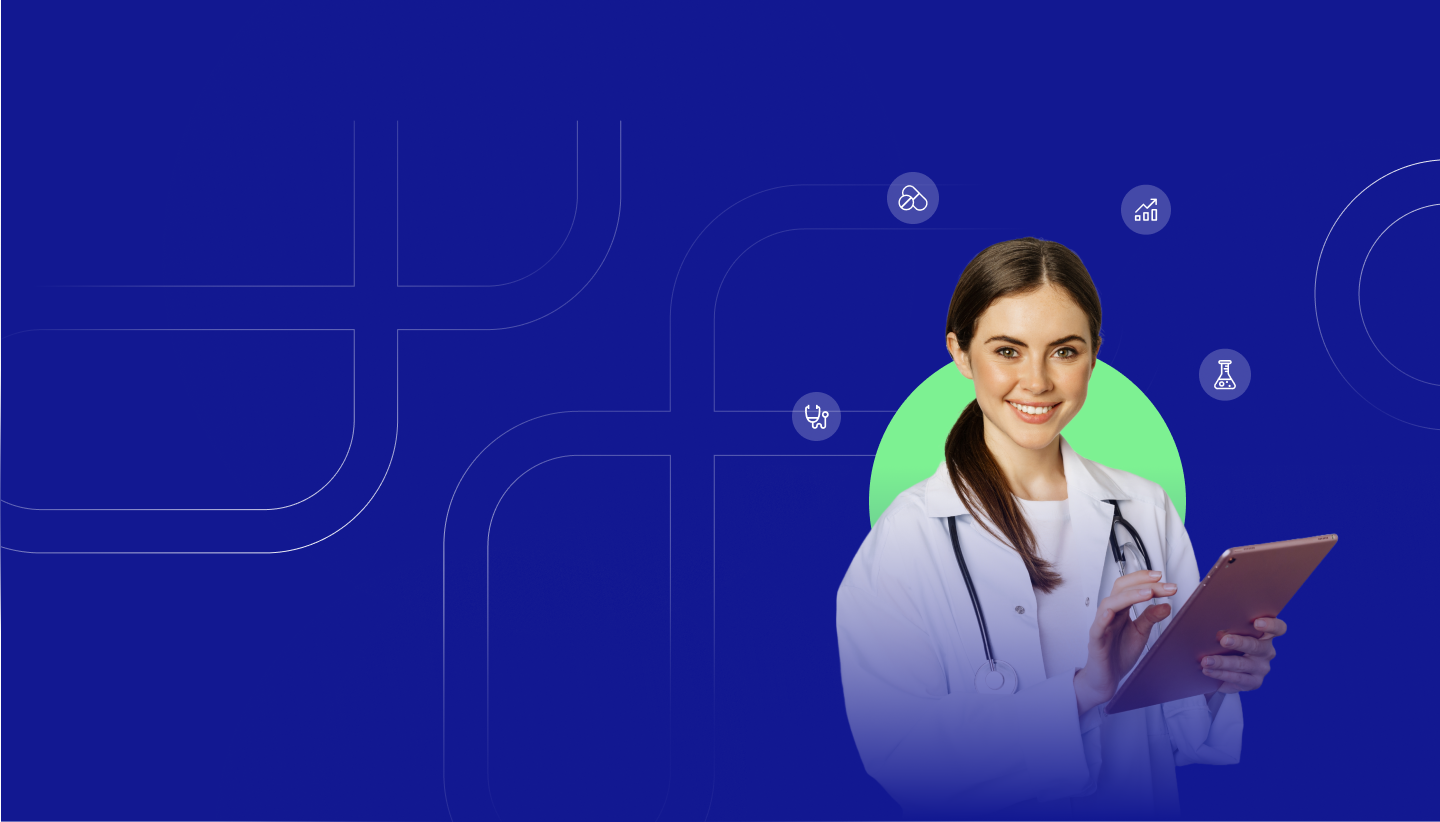
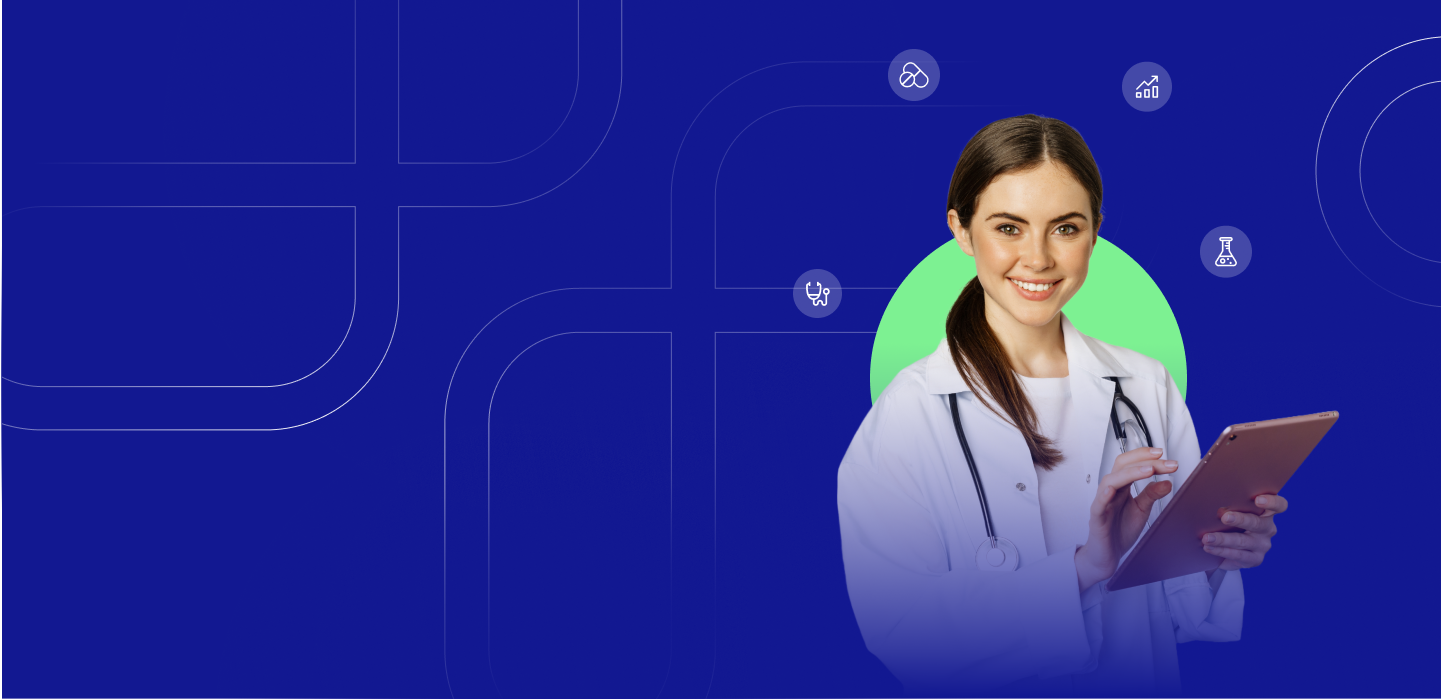
Completed carousel design part

diff --git a/index.html b/index.html
@@ -3,7 +3,7 @@
   <head>
     <meta charset="UTF-8" />
     <meta name="viewport" content="width=device-width, initial-scale=1.0" />
-    <title>Document</title>
+    <title>DoctorLive</title>
     <link rel="stylesheet" href="./css/style.css" />
     <link
       rel="stylesheet"
@@ -99,71 +99,78 @@
             </li> -->
           </ul>
 
-          <button class="text-primary rounded-full bg-light border-0 float-end book-demo-btn">
+          <button class="rounded-full bg-light border-0 float-end book-demo-btn">
             Book Demo
           </button>
         </div>
       </div>
     </nav>
-
+    <div id="shadow-box-navbar"></div>
     <!-- Carousel Item section -->
-    <div id="carouselExampleSlidesOnly" class="carousel slide" data-ride="carousel">
+    <div id="carouselExampleSlidesOnly" class="carousel slide" data-bs-ride="carousel">
         <div class="carousel-inner">
-          <div class="carousel-item active">
-            <div>
+          <div class="carousel-item active" >
                 <div class="carousel-slide-1">
-                 <h3 class="text-green fs-1 fw-bold">All-In-One Healthcare-Solution,</h3>
-                 <h3 class="text-light fs-1 fw-bold">From Billing to Patient Care,</h3>
-                 <h3 class="text-light fs-1 fw-bold">We've Got You Covered.</h3>
-                
-                <div class="inner-flex-container mb-5">
-                    <div>
-                    <p class="text-light mb-5">Streamline operations, enhance patient care, and embrace <br> the future of healthcare management.</p>
-                    <i class="fa-solid fa-check text-green"></i><span class="text-light m-2">Tailor-Made Solutions</span>
-                     <br>
-                     <i class="fa-solid fa-check text-green"></i> <span class="text-light m-2">Seamless Operations</span><br>
-                     <i class="fa-solid fa-check text-green"></i> <span class="text-light m-2">Data-Driven Excellence</span><br>
-                    <button  class="border-0  bg-light  fw-medium mt-5 explore-innovation-btn">Explore Innovation</button>
-                </div>  
-                <div>
-                    <img src="./assets/img/laptop.png" alt="">
-                </div>  
-               
-            </div>
-            <div class="slide-footer-flex">
-                <div>
-                   <span class="text-green fs-2 fw-medium">6+</span>
-                   <p class="text-light fs-6">Years Experience</p>
-                </div>
-                <div>
-                    <span class="text-green fs-2 fw-medium">15+</span>
-                    <p class="text-light fs-6">Modules</p>
-                </div>
-                <div>
-                    <span class="text-green fs-2 fw-medium">24/7</span>
-                    <p class="text-light fs-6">Support</p>
-                </div>
-                <div>
-                    <span class="text-green fs-2 fw-medium">50%</span>
-                    <p class="text-light fs-6">Faster Billing</p>
-                </div>
-                <div>
-                    <span class="text-green fs-2 fw-medium">100%</span>
-                    <p class="text-light fs-6">Data Security</p>
-                </div>
-                <div>
-                    <span class="text-green fs-2 fw-medium">99%</span>
-                    <p class="text-light fs-6">Uptime</p>
-                </div>
-               </div>
-            </div>
-            </div>
+                    <div class="p-5">
+                      <div>
+                        <h3 class="text-green fs-1 fw-bold lh-16">All-In-One Healthcare-Solution,</h3>
+                        <h3 class="text-light fs-1 fw-bold">From Billing to Patient Care,</h3>
+                        <h3 class="text-light fs-1 fw-bold lh-16">We've Got You Covered.</h3>
+                      </div>
+                       
+                       <div class="inner-flex-container">
+                           <div>
+                           <p class="text-light mb-5">Streamline operations, enhance patient care, and embrace <br> the future of healthcare management.</p>
+                           <i class="fa-solid fa-check text-green"></i><span class="text-light m-2 fw-medium">Tailor-Made Solutions</span>
+                            <br>
+                            <i class="fa-solid fa-check text-green"></i> <span class="text-light m-2 fw-medium">Seamless Operations</span><br>
+                            <i class="fa-solid fa-check text-green"></i> <span class="text-light m-2 fw-medium">Data-Driven Excellence</span><br>
+                           <button  class="border-0  bg-light  mt-5 explore-innovation-btn">Explore Innovation</button>
+                       </div>  
+                       <div id="s-child"></div>  
+                      
+                   </div>
+                    </div>
+           
+            
           </div>
-          <div class="carousel-item">
+          
+          <div class="slide-footer-flex">
+            <div>
+               <span class="text-green fs-2 fw-medium">6+</span>
+               <p class="text-light fs-6">Years Experience</p>
+            </div>
+            <div>
+                <span class="text-green fs-2 fw-medium">15+</span>
+                <p class="text-light fs-6">Modules</p>
+            </div>
+            <div>
+                <span class="text-green fs-2 fw-medium">24/7</span>
+                <p class="text-light fs-6">Support</p>
+            </div>
+            <div>
+                <span class="text-green fs-2 fw-medium">50%</span>
+                <p class="text-light fs-6">Faster Billing</p>
+            </div>
+            <div>
+                <span class="text-green fs-2 fw-medium">100%</span>
+                <p class="text-light fs-6">Data Security</p>
+            </div>
+            <div>
+                <span class="text-green fs-2 fw-medium">99%</span>
+                <p class="text-light fs-6">Uptime</p>
+            </div>
+           </div>
+           <div id="shadow-box-slide-footer">
+           
+           </div>
+        </div>
+           <div class="carousel-item">
             <div class="carousel-slide-2">
-                    <h3 class="text-green fs-1 fw-bold">All-In-One Healthcare-Solution,</h3>
-                    <h3 class="text-light fs-1 fw-bold">From Billing to Patient Care,</h3>
-                    <h3 class="text-light fs-1 fw-bold">We've Got You Covered.</h3>
+                <div class="p-5">
+                    <h3 class="text-green fs-1 fw-bold lh-16">Elevate Healthcare</h3>
+                    <h3 class="text-light fs-1 fw-bold">Excellence with Cutting-Edge</h3>
+                    <h3 class="text-light fs-1 fw-bold lh-16">Management Solutions</h3>
                    
                    <div class="inner-flex-container mb-5">
                        <div>
@@ -172,41 +179,94 @@
                         <br>
                         <i class="fa-solid fa-check text-green"></i> <span class="text-light m-2">Seamless Operations</span><br>
                         <i class="fa-solid fa-check text-green"></i> <span class="text-light m-2">Data-Driven Excellence</span><br>
-                       <button  class="border-0  bg-light  fw-medium mt-5 explore-innovation-btn">Explore Innovation</button>
+                       <button  class="border-0  bg-light  mt-5 explore-innovation-btn">Request a Demo</button>
                    </div>  
                </div>
-               <div class="slide-footer-flex">
-                   <div>
-                      <span class="text-green fs-2 fw-medium">6+</span>
-                      <p class="text-light fs-6">Years Experience</p>
+                </div>
+               </div>
+                <div class="slide-footer-flex">
+                   <div class="text-center">
+                      <img src="./assets/img/customize.svg" width="100px" height="50px" alt="">
+                      <p class="text-light fs-6 mt-2 fw-medium">Customizable</p>
                    </div>
-                   <div>
-                       <span class="text-green fs-2 fw-medium">15+</span>
-                       <p class="text-light fs-6">Modules</p>
+                   <div class="text-center">
+                    <img src="./assets/img/support.svg"  width="100px" height="50px" alt="">
+                       <p class="text-light fs-6 mt-2 fw-medium">Support</p>
                    </div>
-                   <div>
-                       <span class="text-green fs-2 fw-medium">24/7</span>
-                       <p class="text-light fs-6">Support</p>
+                   <div class="text-center">
+                    <img src="./assets/img/secure.svg" width="100px" height="50px" alt="">
+                       <p class="text-light fs-6 mt-2 fw-medium">Secure</p>
                    </div>
-                   <div>
-                       <span class="text-green fs-2 fw-medium">50%</span>
-                       <p class="text-light fs-6">Faster Billing</p>
+                   <div class="text-center">
+                    <img src="./assets/img/Affordable.svg" width="100px" height="50px" alt="">
+                       <p class="text-light fs-6 mt-2 fw-medium">Affordable</p>
                    </div>
-                   <div>
-                       <span class="text-green fs-2 fw-medium">100%</span>
-                       <p class="text-light fs-6">Data Security</p>
+                   <div class="text-center">
+                    <img src="./assets/img/cloudbased.svg" width="100px" height="50px" alt="">
+                       <p class="text-light fs-6 mt-2 fw-medium">Cloud-Based</p>
                    </div>
-                   <div>
-                       <span class="text-green fs-2 fw-medium">99%</span>
-                       <p class="text-light fs-6">Uptime</p>
+                   <div class="text-center">
+                    <img src="./assets/img/satisfied.svg" width="100px" height="50px" alt="">
+                       <p class="text-light fs-6 mt-2 fw-medium">Satisfied</p>
                    </div>
                   </div>
+               <div id="shadow-box-slide-footer">
+           
                </div>
-          </div>
-          <div class="carousel-item">
-           <img width="100%" height="100%" src="https://media.istockphoto.com/id/917911572/photo/standing-woman-on-the-hill-against-mountain-valley-at-bright-sunny-day-landscape-with-girl.webp?b=1&s=612x612&w=0&k=20&c=srEu7bQ9CBkYi_BIIr4Y36kcQ1OqD_SqfQ0_T316Zcw=" alt="">
+          </div> 
+            <div class="carousel-item">
+              <div class="carousel-slide-3">
+                  <div class="p-5">
+                      <h3 class="text-green fs-1 fw-bold lh-16">Tailored for Success:</h3>
+                      <h3 class="text-light fs-1 fw-bold">Your Unique Healthcare Solution</h3>
+                     
+                     <div class="inner-flex-container mb-5">
+                         <div>
+                         <p class="text-light mb-5">Craft your success story with our tailor-made management solutions. <br> Seamless operations and data-driven excellence await you</p>
+                         <i class="fa-solid fa-check text-green"></i><span class="text-light m-2 fw-medium">Tailor-Made Solutions</span>
+                          <br>
+                          <i class="fa-solid fa-check text-green"></i> <span class="text-light m-2 fw-medium">Seamless Operations</span><br>
+                          <i class="fa-solid fa-check text-green"></i> <span class="text-light m-2 fw-medium">Data-Driven Excellence</span><br>
+                         <button  class="border-0  bg-light  mt-5 explore-innovation-btn" style="width: 230px;">Customize Your Journey</button>
+                     </div>  
+                 </div>
+                  </div>
+                 
+                 </div>
+                 <div class="slide-footer-flex">
+                     <div class="text-center">
+                        <img src="./assets/img/customize.svg" width="100px" height="50px" alt="">
+                        <p class="text-light fs-6 mt-2 fw-medium">Customizable</p>
+                     </div>
+                     <div class="text-center">
+                      <img src="./assets/img/support.svg"  width="100px" height="50px" alt="">
+                         <p class="text-light fs-6 mt-2 fw-medium">Support</p>
+                     </div>
+                     <div class="text-center">
+                      <img src="./assets/img/secure.svg" width="100px" height="50px" alt="">
+                         <p class="text-light fs-6 mt-2 fw-medium">Secure</p>
+                     </div>
+                     <div class="text-center">
+                      <img src="./assets/img/Affordable.svg" width="100px" height="50px" alt="">
+                         <p class="text-light fs-6 mt-2 fw-medium">Affordable</p>
+                     </div>
+                     <div class="text-center">
+                      <img src="./assets/img/cloudbased.svg" width="100px" height="50px" alt="">
+                         <p class="text-light fs-6 mt-2 fw-medium">Cloud-Based</p>
+                     </div>
+                     <div class="text-center">
+                      <img src="./assets/img/satisfied.svg" width="100px" height="50px" alt="">
+                         <p class="text-light fs-6 mt-2 fw-medium">Satisfied</p>
+                     </div>
+                    
+                    </div>
+                    <div id="shadow-box-slide-footer">
+                 
+                    </div>
           </div>
         </div>
       </div>
+
+      
   </body>
 </html>

diff --git a/css/style.css b/css/style.css
@@ -36,29 +36,58 @@
 
 /*--------------------- End ----------------------*/
 
+#shadow-box-navbar {
+  background: #fff;
+  position: absolute;
+  top: 3.9rem;
+  opacity: 0.1;
+  z-index: 1;
+  width: 100%;
+  height: 4.5rem;
+}
+.lh-16 {
+  line-height: 16px !important;
+}
 .carousel-slide-1 {
   width: 100%;
-  height: auto;
-  background: var(--blue);
-  padding: 5rem;
+  max-width: 100vw;
+  height: 45rem;
+  background-image: url("../assets/img/slide1.png");
+  background-size: 100%;
+  background-repeat: no-repeat;
 }
 .carousel-slide-2 {
-  background-image: url("../assets/img/slide2.png");
-  background-size: cover;
   width: 100%;
-  height: 100vh;
+  height: 45rem;
+  background-image: url("../assets/img/slide2.png");
+  background-size: 100%;
+  background-repeat: no-repeat;
+}
+.carousel-slide-3 {
+  width: 100%;
+  height: 45rem;
+  background-image: url("../assets/img/slide3.png");
+  background-size: 100%;
+  background-repeat: no-repeat;
 }
 .inner-flex-container {
   display: flex;
   width: 100%;
-  height: 100vh;
+  height: 24rem;
   flex-wrap: wrap;
+  margin-top: 27px;
 }
 
+#s-child {
+  width: 45%;
+  background-image: url("../assets/img/laptop.png");
+  background-size: contain;
+  background-position: center;
+  background-repeat: no-repeat;
+}
 .inner-flex-container > div {
   width: 50%;
 }
-
 .rounded-full {
   border-radius: 15px;
 }
@@ -67,13 +96,16 @@
   width: 200px;
   height: 40px;
   padding: 8px;
-  border-radius: 15px;
-  color: blue;
+  border-radius: 30px;
+  font-weight: 800;
+  color: var(--blue);
 }
 
 .book-demo-btn {
   width: 130px;
   height: 35px;
+  color: var(--blue);
+  font-weight: 700;
 }
 
 .slide-footer-flex {
@@ -82,9 +114,17 @@
   flex-shrink: 0;
   flex-basis: 200px;
   width: 100%;
-  height: 15rem;
-  background-image: url("./assets/img/slide-footer.png");
-  background-size: cover;
-  background-repeat: no-repeat;
+  height: 10rem;
+  padding: 3rem;
+  background: #121891;
   justify-content: space-between;
+}
+
+#shadow-box-slide-footer {
+  background: #fff;
+  opacity: 0.1;
+  width: 100%;
+  height: 10rem;
+  padding: 3rem;
+  margin-top: -10rem;
 }
